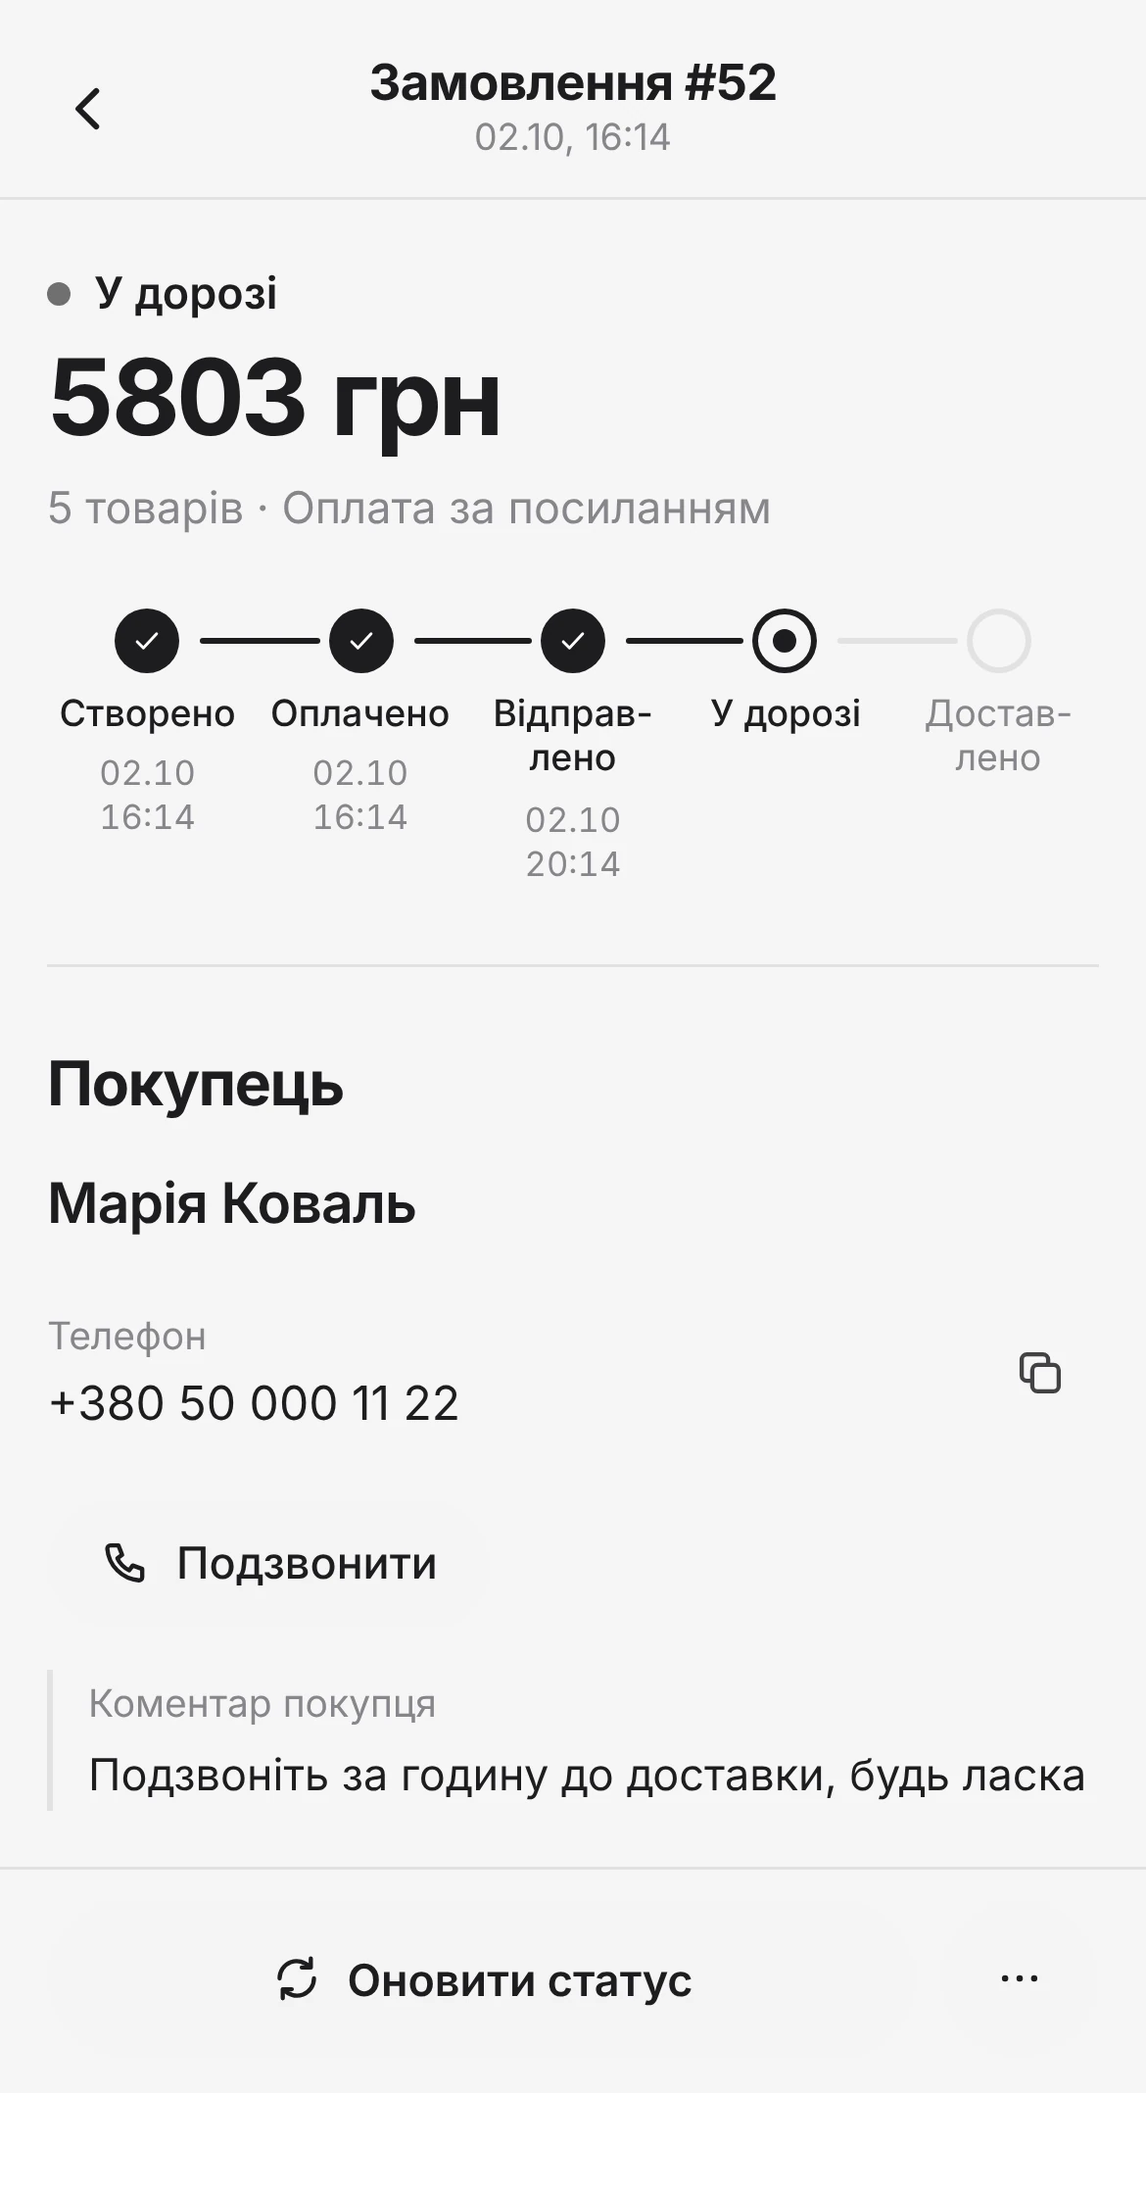
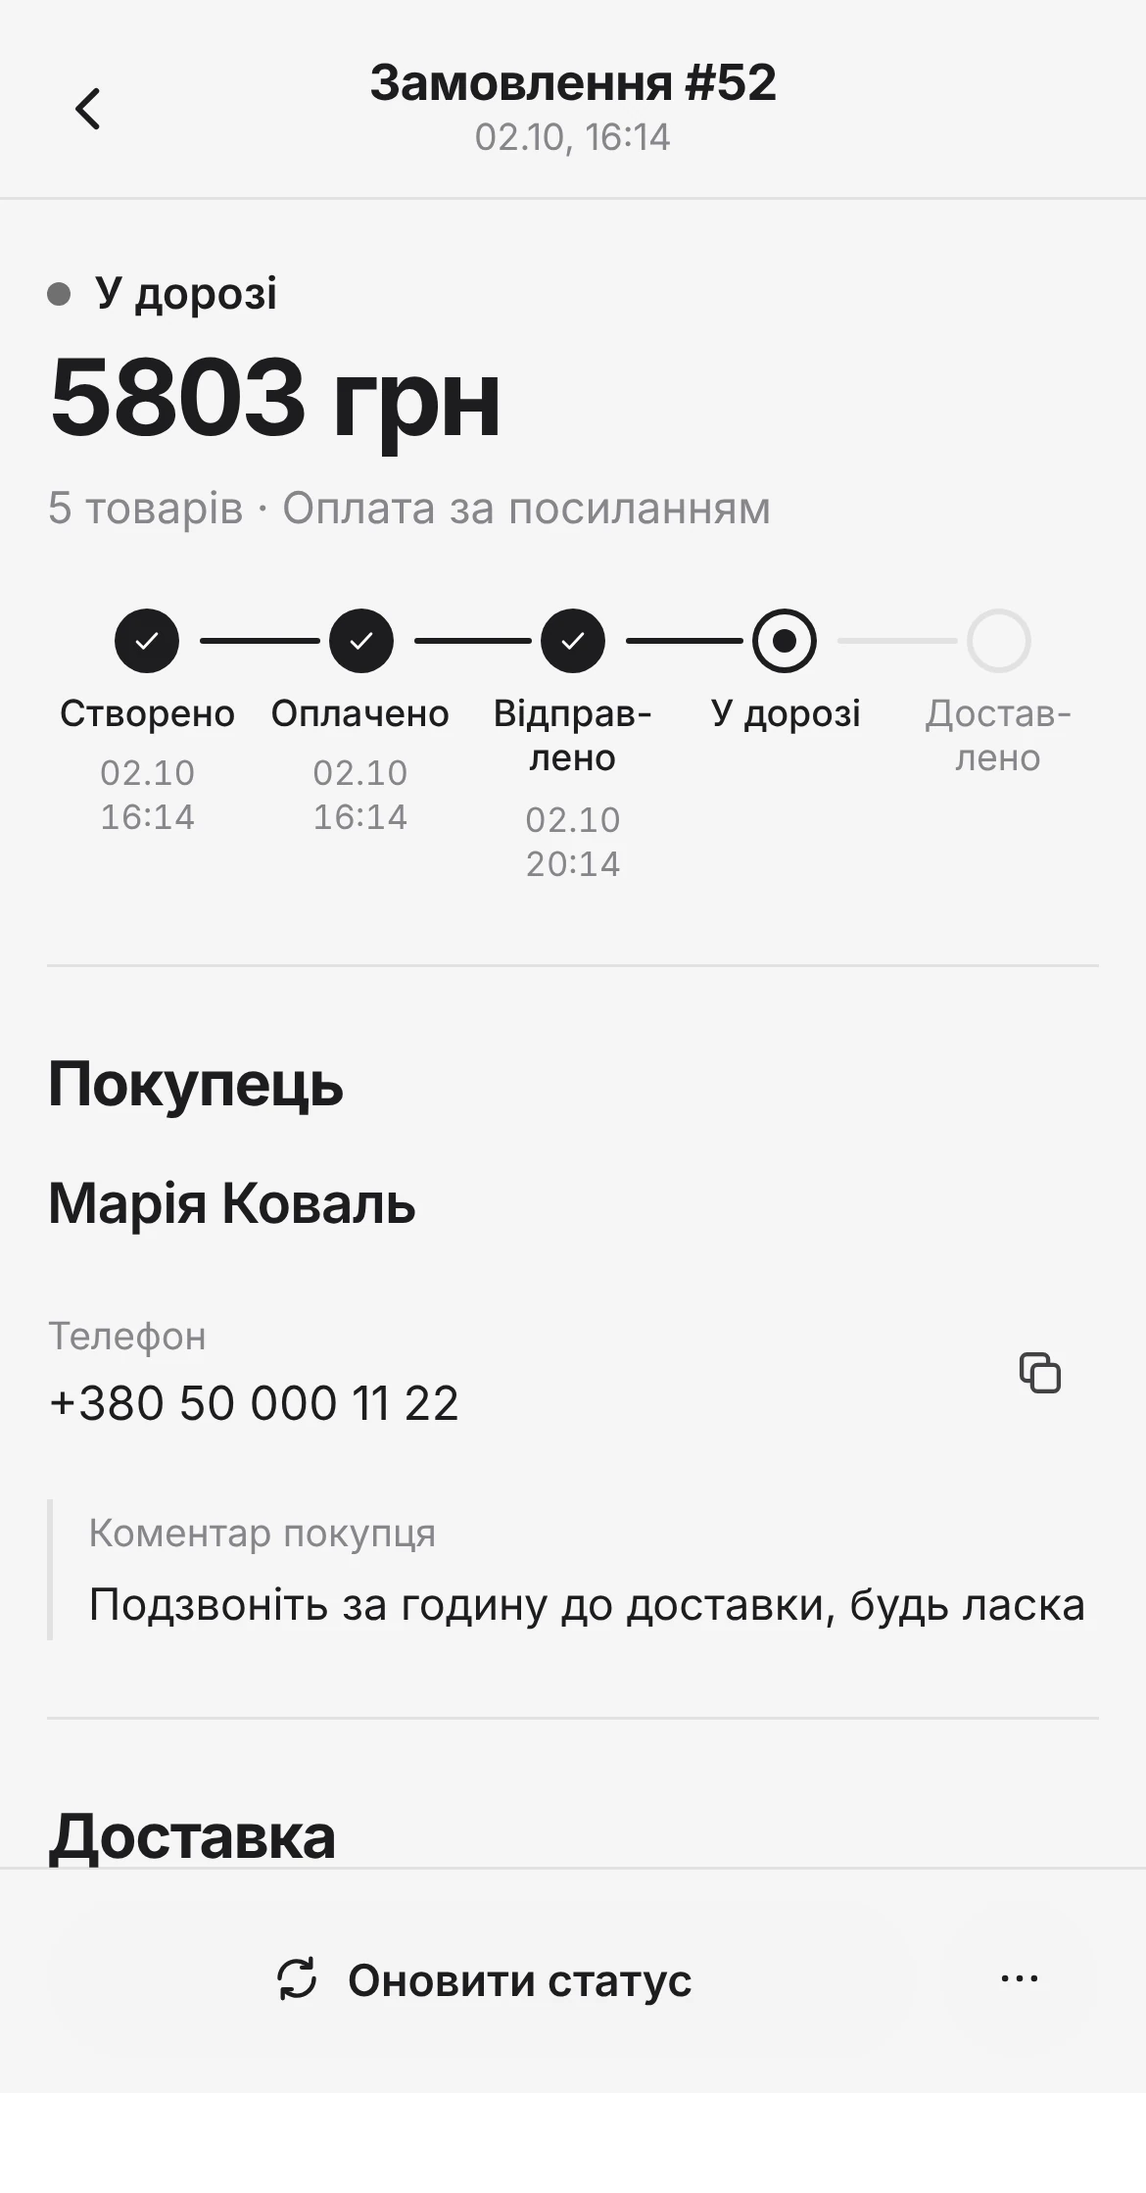
Замовлення: без кнопки «Подзвонити» (#17)
* Shots: product editor in the unified style

Claude-Session: https://claude.ai/code/session_01Tv2wQKJRwy2x9o7FNnTaLJ

* Замовлення v3: список, екран замовлення, ручна ТТН, скасування

- owner-guide: «Список», «Екран замовлення», «Дії», «ТТН, створена в
  застосунку Нової пошти»; фільтр «Очікують оплати»
- nova-poshta, launch: без ⓘ, `Наступний крок`, внесення номера ТТН
- нові знімки замовлень зі стандартними товарами
- platform-facts: Замовлення (WebApp, v3)

Claude-Session: https://claude.ai/code/session_01Tv2wQKJRwy2x9o7FNnTaLJ

* Замовлення: без кнопки «Подзвонити»

Claude-Session: https://claude.ai/code/session_01Tv2wQKJRwy2x9o7FNnTaLJ

---------

diff --git a/docs/_internal/platform-facts.md b/docs/_internal/platform-facts.md
@@ -364,7 +364,7 @@ refs для міста і відділення.
 
 **Укрпошта по API (SHIP-EU, PR insomnia.workshop #17).** У рядку `Укрпошта` той самий блок `Автоматичні відправлення`, але три поля-паролі: `Ключ eCom (Bearer)`, `Токен контрагента`, `Ключ відстеження (StatusTracking)` (плейсхолдер «З додатка до договору», після збереження «Збережено: abcd••••••••» по кожному); підказка «Ключі видає Укрпошта після підписання договору на обслуговування. Ми перевіримо їх перед збереженням.» Поля `Відділення, де ви здаєте посилки` немає. Підказка під службою після підключення: «Відправлення створюється з картки замовлення.» (без списку відділень). У замовленні ті самі дії, що в Nova Post. Відділення по Україні береться за індексом з тексту покупця; якщо індексу немає — «індекс відділення отримувача» у списку «Щоб створити відправлення, не вистачає: … Або створіть його в кабінеті служби й внесіть номер нижче.», і поле `Номер відправлення` лишається (це й для Nova Post). За кордон не більше 4 різних товарів. Скасування лише до прийому у відділенні. Джерела: `backend/app/services/carriers/ukrposhta.py`, `webapp/admin_products/main.js` (`API_KEY_SOURCES`, `shippingApiMarkup`), `webapp/admin_orders/main.js` (`buildShipmentCard`). Поки не в develop: чекає OK на #17.
 
-**Замовлення (WebApp, v3 з 2026-11-14).** Список: заголовок `Замовлення`, під ним «Чекають на вас: N оплата/оплати, N відправка/відправки» або «Усе оброблено». Фільтри-чипи з лічильниками (порядок): `Усі`, `На перевірці`, `До відправки`, `Очікують оплати`, `У дорозі`, `Завершені`; `На перевірці` і `До відправки` підсвічені, коли не порожні. Пошук «номер, імʼя, телефон», сортування `Спочатку нові`/`Спочатку старі`/`№ за спаданням`/`№ за зростанням`; при сортуванні за датою — групи по днях. Рядок: фото першого товару з кількістю позицій, номер, імʼя (без імені — «Покупець без імені»), статус, час, доставка · оплата, сума. Порожні стани: «Нічого не знайдено» + `Очистити пошук`; порожній фільтр + `Показати всі`; «Замовлень ще немає». Екран замовлення (на весь екран, нижня панель оболонки схована): `Замовлення #N`, статус, сума, шкала етапів, `Наступний крок` (пояснення головної дії; ⓘ прибрано). Блоки: `Покупець` (Телефон, Telegram @нік, `Подзвонити`, `Написати`, «Коментар покупця»), `Доставка` (Служба, Куди, ТТН з копіюванням і посиланням на трекінг; без ТТН — `Уже створили ТТН у застосунку Нової пошти` → `Номер ТТН`, `Зберегти ТТН`, «Замовлення стане «Відправлено», а покупець отримає номер у Telegram.»; згорнуте `Дані накладної`, лише коли ТТН можна створити), `Товари` (лічильник, `Товари`, `Знижка · ПРОМОКОД`, `Разом`, `Оплата`). Нижня панель дій: головна кнопка, менші дії, `…` (аркуш із поясненнями, кнопка `Закрити`). Дії: `Підтвердити оплату`, `Скасувати замовлення` (неоплачене онлайн-замовлення: резерв на склад, покупцю повідомлення), `Створити ТТН`, `Оновити статус ТТН` (коротко `Оновити статус`), `Перевипустити ТТН`, `Скасувати ТТН`, `Прибрати ТТН` (лише для внесеної вручну), `Позначити відправленим`, `Позначити у відділенні`, `Оплачено / отримано`, `Скасувати / повернення`; для інших служб `Створити відправлення`, `Оновити статус відправлення`, `Скасувати відправлення`, форма `Номер відправлення` + `Позначити відправленим`. Скасування перепитує («Скасувати замовлення?» → `Так, скасувати замовлення`). `Скопіювати ТТН` і `Відстежити` як окремі кнопки прибрано (копіювання й посилання біля номера). Суми у валюті замовлення. Джерела: `webapp/admin_orders/main.js` (`FILTERS`, `availableActions`, `ACTION_HINTS`, `buildNovaPoshtaSection`, `buildManualTtn`), `app/api/admin_orders_webapp.py` (дії `set_ttn`, `clear_ttn`, `cancel_order`).
+**Замовлення (WebApp, v3 з 2026-11-14).** Список: заголовок `Замовлення`, під ним «Чекають на вас: N оплата/оплати, N відправка/відправки» або «Усе оброблено». Фільтри-чипи з лічильниками (порядок): `Усі`, `На перевірці`, `До відправки`, `Очікують оплати`, `У дорозі`, `Завершені`; `На перевірці` і `До відправки` підсвічені, коли не порожні. Пошук «номер, імʼя, телефон», сортування `Спочатку нові`/`Спочатку старі`/`№ за спаданням`/`№ за зростанням`; при сортуванні за датою — групи по днях. Рядок: фото першого товару з кількістю позицій, номер, імʼя (без імені — «Покупець без імені»), статус, час, доставка · оплата, сума. Порожні стани: «Нічого не знайдено» + `Очистити пошук`; порожній фільтр + `Показати всі`; «Замовлень ще немає». Екран замовлення (на весь екран, нижня панель оболонки схована): `Замовлення #N`, статус, сума, шкала етапів, `Наступний крок` (пояснення головної дії; ⓘ прибрано). Блоки: `Покупець` (Телефон, Telegram @нік, `Написати` (кнопку `Подзвонити` прибрано 2026-11-14), «Коментар покупця»), `Доставка` (Служба, Куди, ТТН з копіюванням і посиланням на трекінг; без ТТН — `Уже створили ТТН у застосунку Нової пошти` → `Номер ТТН`, `Зберегти ТТН`, «Замовлення стане «Відправлено», а покупець отримає номер у Telegram.»; згорнуте `Дані накладної`, лише коли ТТН можна створити), `Товари` (лічильник, `Товари`, `Знижка · ПРОМОКОД`, `Разом`, `Оплата`). Нижня панель дій: головна кнопка, менші дії, `…` (аркуш із поясненнями, кнопка `Закрити`). Дії: `Підтвердити оплату`, `Скасувати замовлення` (неоплачене онлайн-замовлення: резерв на склад, покупцю повідомлення), `Створити ТТН`, `Оновити статус ТТН` (коротко `Оновити статус`), `Перевипустити ТТН`, `Скасувати ТТН`, `Прибрати ТТН` (лише для внесеної вручну), `Позначити відправленим`, `Позначити у відділенні`, `Оплачено / отримано`, `Скасувати / повернення`; для інших служб `Створити відправлення`, `Оновити статус відправлення`, `Скасувати відправлення`, форма `Номер відправлення` + `Позначити відправленим`. Скасування перепитує («Скасувати замовлення?» → `Так, скасувати замовлення`). `Скопіювати ТТН` і `Відстежити` як окремі кнопки прибрано (копіювання й посилання біля номера). Суми у валюті замовлення. Джерела: `webapp/admin_orders/main.js` (`FILTERS`, `availableActions`, `ACTION_HINTS`, `buildNovaPoshtaSection`, `buildManualTtn`), `app/api/admin_orders_webapp.py` (дії `set_ttn`, `clear_ttn`, `cancel_order`).
 
 **Тарифи** (`billing/plans.py`): Basic $10 / Pro $20 / Business $40 за місяць, рік — $96 / $192 / $384 (−20%). Рівні модулів (`feature_registry.FEATURES`): Pro — `analytics`, `customer_accounts`, `nova_poshta_shipping`, `promo_codes`, `catalog_import`, `cart_recovery`, `campaigns`, `customer_insights`; Business — `customer_segment_rules`, `cross_sell`. Ліміти, які реально діють: шаблони магазину 1/3/10, AI-кредити на місяць 20/100/300. Ліміти `products` і `orders_per_month` задані в коді, але **не застосовуються й не показуються власнику** — у публічних доках не згадувати, доки це не зміниться.
 

diff --git a/docs/owner-guide.md b/docs/owner-guide.md
@@ -296,7 +296,7 @@ icon: ph/book-open-text
 
 Далі три блоки:
 
-- `Покупець`: імʼя, телефон, нік у Telegram і коментар до замовлення. Кнопки `Подзвонити` і `Написати` відкривають дзвінок і чат із покупцем.
+- `Покупець`: імʼя, телефон, нік у Telegram і коментар до замовлення. Кнопка `Написати` відкриває чат із покупцем у Telegram.
 - `Доставка`: служба, куди везти, номер ТТН. Номер можна скопіювати або відкрити у Новій пошті.
 - `Товари`: позиції з фото й варіантом, знижка за промокодом, `Разом` і спосіб оплати.
 
